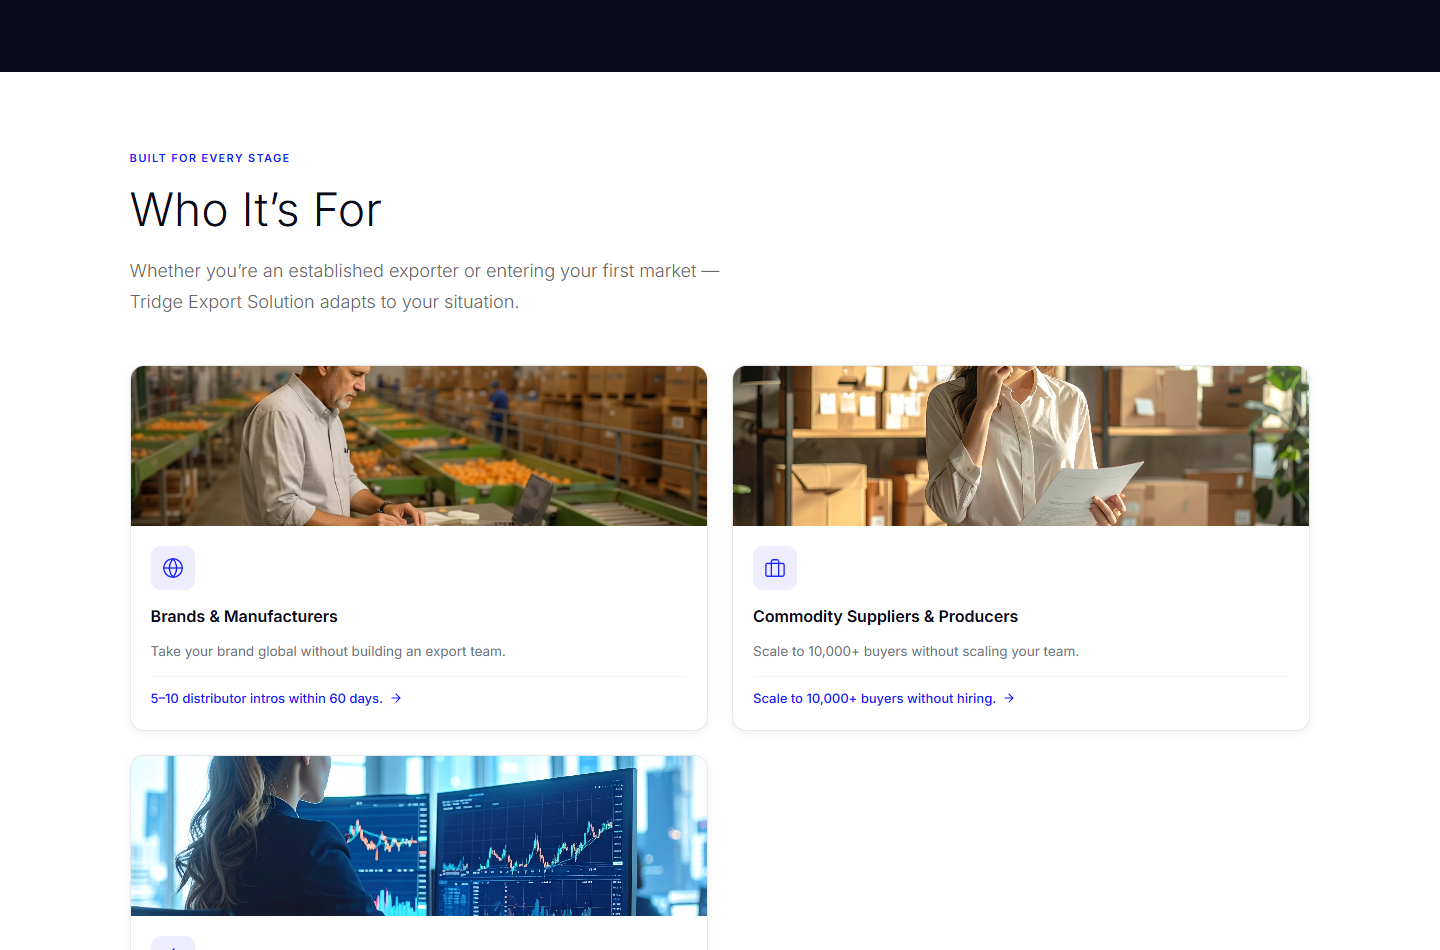
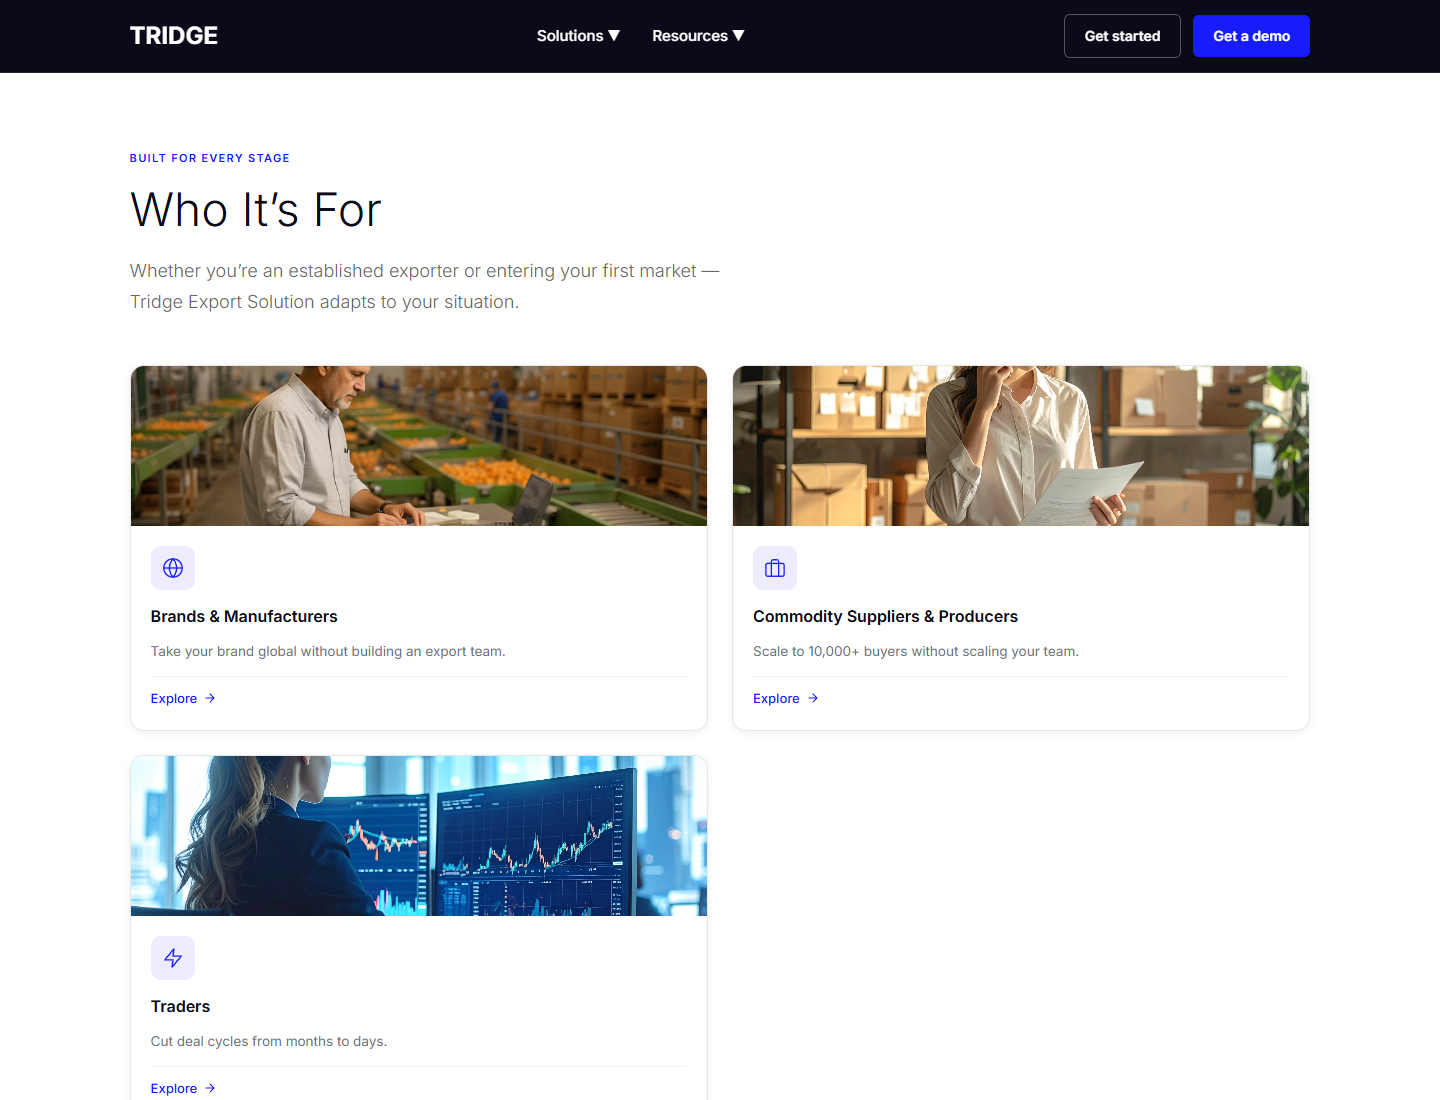
Fix hero image and card CTA text in brands-manufacturers and who-its-for

Changed region(s): [[0.0625, 0.1221, 0.9375, 1.0], [0.0, 0.0, 1.0, 0.0916], [0.5312, 0.7326, 0.6875, 0.7632]]

diff --git a/export-solution.html b/export-solution.html
@@ -2438,7 +2438,7 @@
             <h3>Brands &amp; Manufacturers</h3>
             <p>Take your brand global without building an export team.</p>
             <div class="card-benefit">
-              <span class="benefit-text">5–10 distributor intros within 60 days.</span>
+              <span class="benefit-text">Explore</span>
               <svg class="benefit-arrow" viewBox="0 0 24 24" fill="none" stroke="#171CFD" stroke-width="1.5" stroke-linecap="round" stroke-linejoin="round" width="14" height="14"><path d="M5 12h14M12 5l7 7-7 7"/></svg>
             </div>
           </div>
@@ -2456,7 +2456,7 @@
             <h3>Commodity Suppliers &amp; Producers</h3>
             <p>Scale to 10,000+ buyers without scaling your team.</p>
             <div class="card-benefit">
-              <span class="benefit-text">Scale to 10,000+ buyers without hiring.</span>
+              <span class="benefit-text">Explore</span>
               <svg class="benefit-arrow" viewBox="0 0 24 24" fill="none" stroke="#171CFD" stroke-width="1.5" stroke-linecap="round" stroke-linejoin="round" width="14" height="14"><path d="M5 12h14M12 5l7 7-7 7"/></svg>
             </div>
           </div>
@@ -2473,7 +2473,7 @@
             <h3>Traders</h3>
             <p>Cut deal cycles from months to days.</p>
             <div class="card-benefit">
-              <span class="benefit-text">Cut deal cycles from months to days.</span>
+              <span class="benefit-text">Explore</span>
               <svg class="benefit-arrow" viewBox="0 0 24 24" fill="none" stroke="#171CFD" stroke-width="1.5" stroke-linecap="round" stroke-linejoin="round" width="14" height="14"><path d="M5 12h14M12 5l7 7-7 7"/></svg>
             </div>
           </div>

diff --git a/export-brands-manufacturers.html b/export-brands-manufacturers.html
@@ -259,7 +259,7 @@
     }
 
     .hero-nm-headline {
-      font-size: clamp(36px, 5vw, 64px);
+      font-size: clamp(32px, 4vw, 56px);
       font-weight: 300;
       color: #ffffff;
       line-height: 1.1;
@@ -878,7 +878,7 @@
        SECTION 1 — HERO
   =================================================================== -->
   <section class="hero-nm">
-    <img src="images/hero-export-manufacturers.jpg" alt="" class="hero-nm-img" aria-hidden="true">
+    <img src="images/hero-export-manufacturers.png" alt="" class="hero-nm-img" aria-hidden="true">
     <div class="hero-nm-gradient" aria-hidden="true"></div>
 
     <div class="container">
